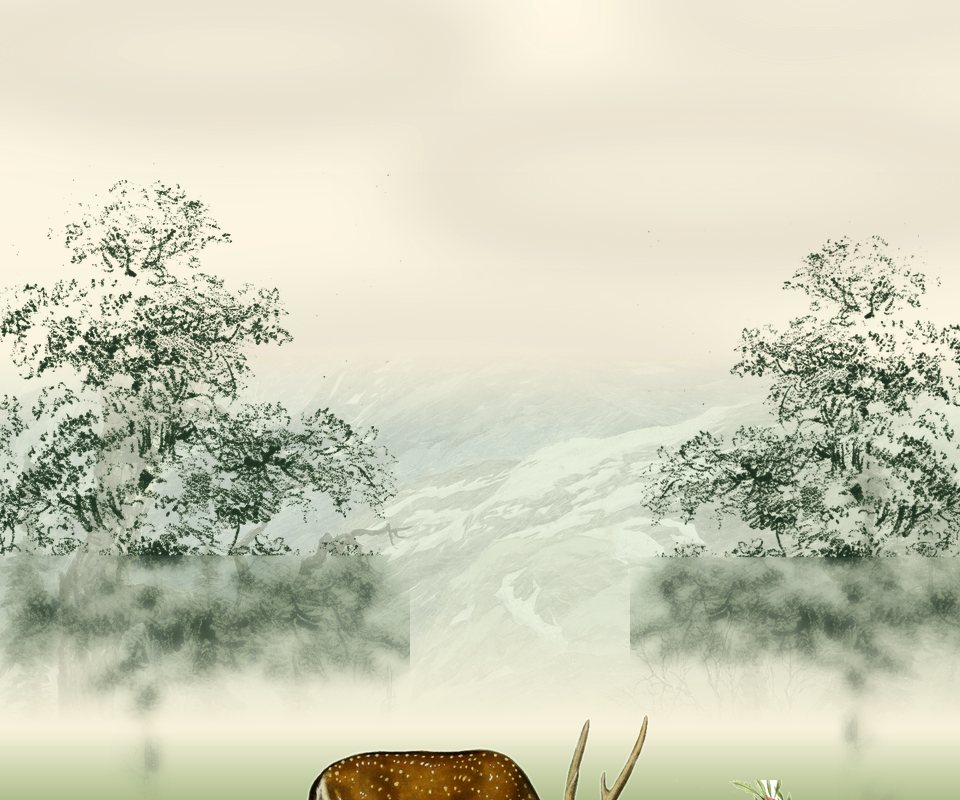
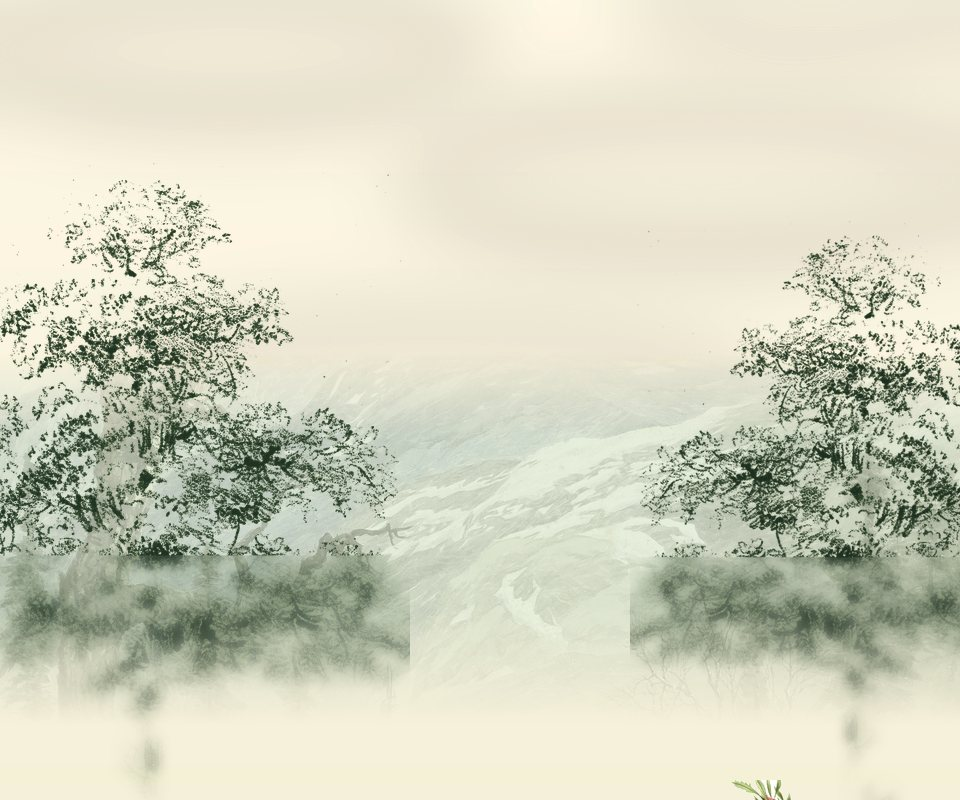
Ikon mural jadi sepasang angsa di danau (lebih unik dari Tibra)
Rusa (ikon khas Tibra) diganti simbol pernikahan yang lebih kuat
dan personal: sepasang angsa saling berhadapan — dari plat John
Gould "Domestic Swan" (Birds of Europe, 1837), asli + cermin,
di-tint sage dan dilebur ke danau berkabut yang dilukis (riak
halus + pantai). Danau juga menyambung cerita foto pre-wedding
pasangan yang banyak berlatar danau. Merpati hero kini terbang
sepasang. deer.png dihapus.

Claude-Session: https://claude.ai/code/session_01LkaUxAjYkG9BUR8KnjGtn9

Changed region(s): [[0.0, 0.9062, 1.0, 1.0]]

diff --git a/preview/index.html b/preview/index.html
@@ -12,7 +12,7 @@
   <link rel="preconnect" href="https://fonts.googleapis.com" />
   <link rel="preconnect" href="https://fonts.gstatic.com" crossorigin />
   <link href="https://fonts.googleapis.com/css2?family=Cormorant+Garamond:ital,wght@0,400;0,500;0,600;1,400;1,500&family=EB+Garamond:ital,wght@0,400;0,500;1,400&family=Great+Vibes&display=swap" rel="stylesheet" />
-  <link rel="stylesheet" href="css/style.css?v=fresco19" />
+  <link rel="stylesheet" href="css/style.css?v=fresco20" />
 </head>
 <body class="locked assemble">
 
@@ -303,7 +303,7 @@
         <img class="mm m-hill3" src="../assets/img/mural/meadow.png" alt="" />
         <img class="mm m-tree-l" src="../assets/img/mural/tree-l.png" alt="" />
         <img class="mm m-tree-r" src="../assets/img/mural/tree-r.png" alt="" />
-        <img class="mm m-deer" src="../assets/img/mural/deer.png" alt="" />
+        <img class="mm m-deer" src="../assets/img/mural/swans.png" alt="" />
         <img class="mm m-flora" src="../assets/img/mural/flora.png" alt="" />
         <svg class="mm m-bf" viewBox="0 0 480 680" preserveAspectRatio="xMidYMid slice">
           <use href="#butterfly" transform="translate(150 540) scale(.5) rotate(-10)"/>
@@ -312,6 +312,7 @@
       </div>
       <div class="hero-grad"></div>
       <svg class="hero-dove" viewBox="-20 -26 50 42" aria-hidden="true"><use href="#dove"/></svg>
+      <svg class="hero-dove hero-dove2" viewBox="-20 -26 50 42" aria-hidden="true"><use href="#dove"/></svg>
       <div class="hero-text">
         <p class="eyebrow rv">The Wedding Of</p>
         <h2 class="script hero-names rv">Ivan <span class="amp">&amp;</span> Sioni</h2>
@@ -527,7 +528,7 @@
   <!-- Toast -->
   <div id="toast" class="toast" role="status" aria-live="polite"></div>
 
-  <script src="js/config.js?v=fresco19"></script>
-  <script src="js/main.js?v=fresco19"></script>
+  <script src="js/config.js?v=fresco20"></script>
+  <script src="js/main.js?v=fresco20"></script>
 </body>
 </html>

diff --git a/preview/css/style.css b/preview/css/style.css
@@ -590,6 +590,8 @@ body:not(.locked) .drift-bf { opacity: .85; }
   animation: heroDove 13s ease-in-out infinite 3s;
   pointer-events: none;
 }
+/* pasangannya terbang menyusul sedikit di belakang */
+.hero-dove2 { width: 34px; animation-delay: 3.9s; margin-top: 4%; }
 @keyframes heroDove {
   0%   { left: -14%; top: 42%; transform: rotate(6deg); opacity: 0; }
   6%   { opacity: .95; }
